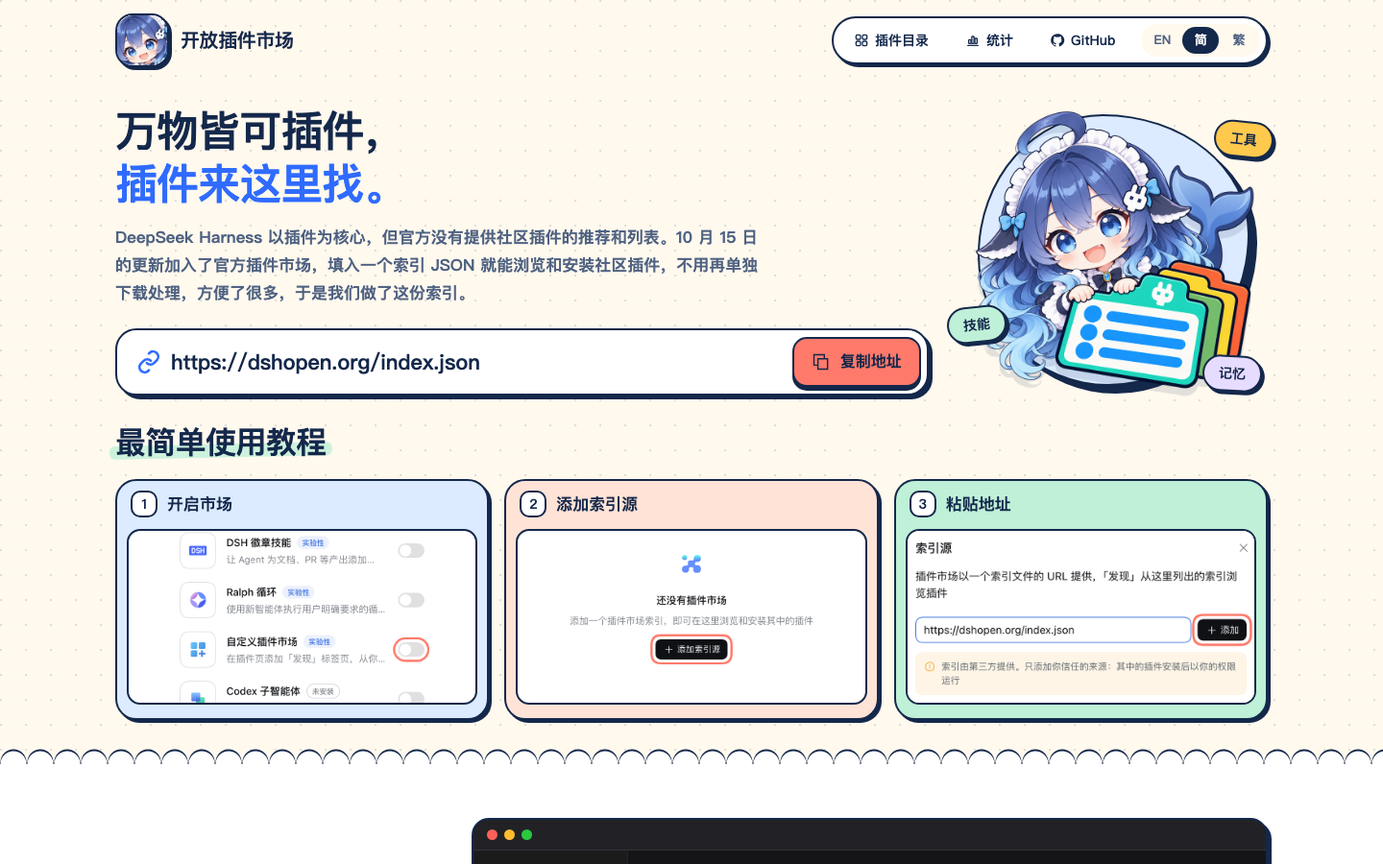
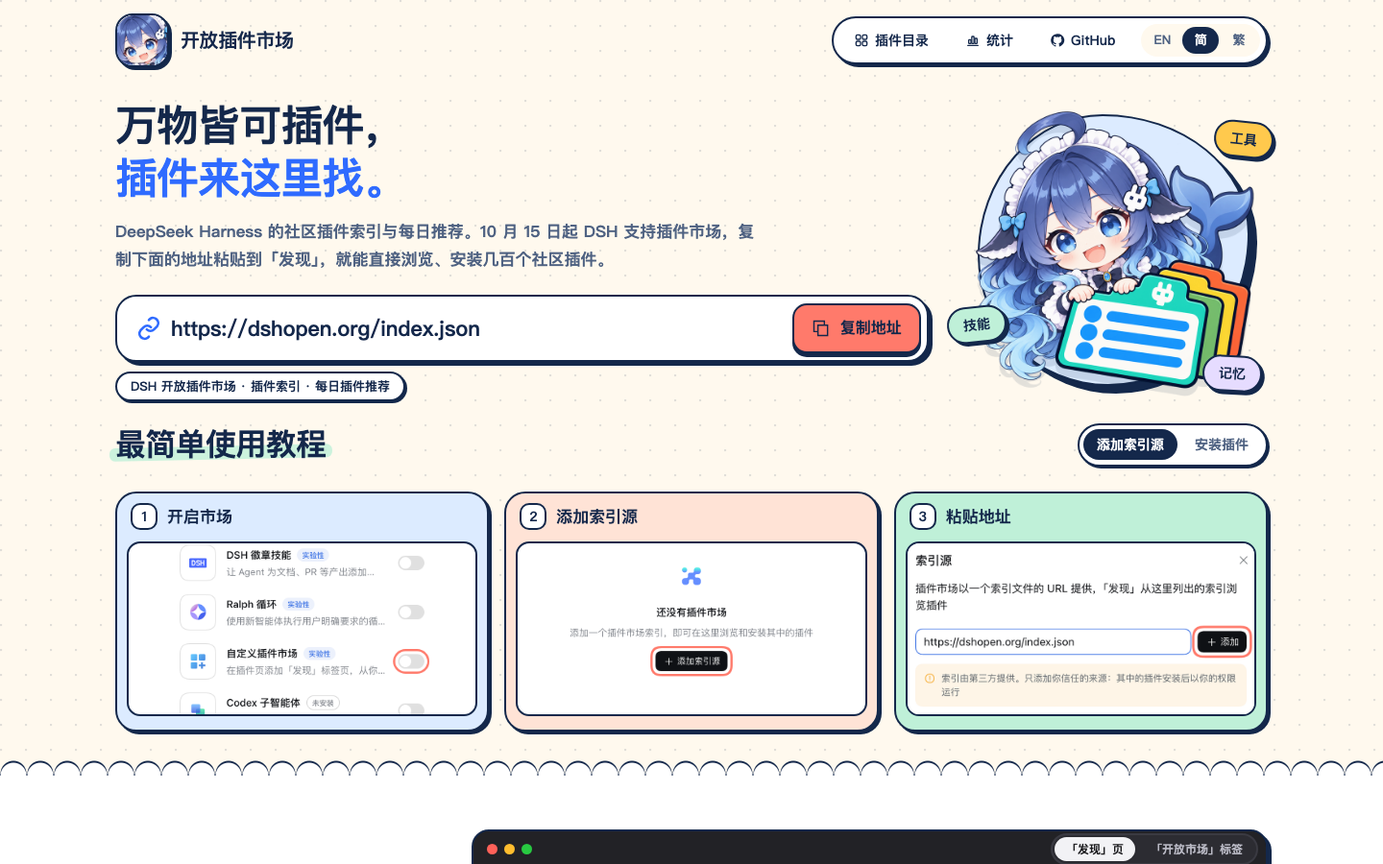
Refresh screenshots for DS Bot and the new Open Market tab
The Open Market screenshots now show the whole window with the sidebar and
the redesigned tab, in both themes; the README's home and catalog shots and
the sharing cards are recaptured from the current site, with DS Bot under
its new name.

Changed region(s): [[0.0, 0.4667, 1.0, 0.9022], [0.0625, 0.1244, 0.6875, 0.4667], [0.3438, 0.9333, 0.9375, 1.0]]

diff --git a/public/zh-tw/index.html b/public/zh-tw/index.html
@@ -27,13 +27,13 @@
   <meta property="og:title" content="開放外掛市場 · DSH 外掛市場 | DeepSeek Harness 外掛索引與每日外掛推薦">
   <meta property="og:description" content="DSH 外掛市場與外掛索引：收錄 854 個 DeepSeek Harness 社群外掛，工具、技能、記憶、介面應有盡有，每天按增長、更新和點贊推薦。複製索引地址，在 DSH「发现」裡瀏覽和安裝。">
   <meta property="og:url" content="https://dshopen.org/zh-tw/">
-  <meta property="og:image" content="https://dshopen.org/assets/social-tw-d18c86b5f3.png">
+  <meta property="og:image" content="https://dshopen.org/assets/social-tw-e7dc6facd1.png">
   <meta property="og:image:type" content="image/png">
   <meta property="og:image:width" content="1200">
   <meta property="og:image:height" content="630">
   <meta property="og:image:alt" content="開放外掛市場 · DSH 外掛市場 | DeepSeek Harness 外掛索引與每日外掛推薦">
   <meta name="twitter:card" content="summary_large_image">
-  <meta name="twitter:image" content="https://dshopen.org/assets/social-tw-d18c86b5f3.png">
+  <meta name="twitter:image" content="https://dshopen.org/assets/social-tw-e7dc6facd1.png">
   <meta name="twitter:image:alt" content="開放外掛市場 · DSH 外掛市場 | DeepSeek Harness 外掛索引與每日外掛推薦">
   <script type="application/ld+json">{"@context":"https://schema.org","@type":"WebSite","name":"開放外掛市場","alternateName":["DSH 外掛市場","DSH 外掛索引","Open Plugin Market"],"url":"https://dshopen.org/zh-tw/","inLanguage":"zh-TW","description":"DSH 外掛市場與外掛索引：收錄 854 個 DeepSeek Harness 社群外掛，工具、技能、記憶、介面應有盡有，每天按增長、更新和點贊推薦。複製索引地址，在 DSH「发现」裡瀏覽和安裝。"}</script>
   <script type="application/ld+json">{"@context":"https://schema.org","@type":"FAQPage","inLanguage":"zh-TW","mainEntity":[{"@type":"Question","name":"DSH 外掛在哪裡找？","acceptedAnswer":{"@type":"Answer","text":"DeepSeek Harness（DSH）的「发现」頁可以新增外掛索引源。開放外掛市場收錄了 854 個社群外掛，把 https://dshopen.org/index.json 新增為索引源後，就能在 DSH 裡直接瀏覽、搜尋和安裝；也可以在本站按分類、增長和更新時間瀏覽。"}},{"@type":"Question","name":"DSH 外掛怎麼安裝？","acceptedAnswer":{"@type":"Answer","text":"方法一：在「插件 → 实验性插件」中開啟「自定义插件市场」，再到「发现 → 添加索引源」貼上索引地址，然後在「发现」裡搜尋外掛名並安裝。方法二：執行 dsh plugin --profile desktop add dsh-open-market，它會自動完成上面的設定，並在「插件」頁加一個「開放市場」標籤。"}},{"@type":"Question","name":"外掛推薦是怎麼排的？","acceptedAnswer":{"@type":"Answer","text":"預設推薦每天更新，以最近增長快、更新勤的外掛為主，同時參考驗證、下載量、star 和點贊。同一作者不會霸榜，新專案和小開發者的作品也有機會上首屏。"}},{"@type":"Question","name":"和 DeepSeek 官方是什麼關係？","acceptedAnswer":{"@type":"Answer","text":"開放外掛市場是獨立的社群專案，與 DeepSeek 官方無隸屬關係。它使用 DSH 官方外掛市場支援的索引格式，外掛由 DSH 自己下載和安裝。"}},{"@type":"Question","name":"怎麼把自己的外掛提交到 DSH 外掛市場？","acceptedAnswer":{"@type":"Answer","text":"在 GitHub 上填寫收錄申請，提供公開原始碼、npm 包和許可證即可。收錄後可以在 README 放上徽章，顯示點贊數並連結到本站的外掛頁。"}}]}</script>
@@ -78,7 +78,7 @@
     <section class="directory-surface" aria-labelledby="directory-title">
     <section class="showcase shell" aria-labelledby="showcase-title">
       <div class="showcase-copy" data-reveal><h2 class="section-title" id="showcase-title">在 DSH 裡的樣子</h2><p>不唯 star 🌟 論。預設推薦每天更新，以最近增長快、更新勤、優質的外掛為主，同時參考驗證、下載量和 star。</p><ul><li>同一作者不會霸榜，小開發者的新作品也能上首屏</li><li>增長快、更新勤、經過驗證等標籤一眼可見</li><li>預設排序、✨ 智慧推薦和隨機，每次都有新發現</li></ul></div>
-      <figure class="app-frame" data-reveal data-shots><div class="app-bar"><span aria-hidden="true"></span><span aria-hidden="true"></span><span aria-hidden="true"></span><div class="app-tabs" role="tablist" hidden><button type="button" role="tab" aria-selected="true" data-shot-tab="discover">「发现」頁</button><button type="button" role="tab" aria-selected="false" data-shot-tab="market">「開放市場」標籤</button></div></div><picture><source media="(max-width: 620px)" srcset="../assets/dsh-discover-zh-narrow.webp" width="800" height="1028"><img src="../assets/dsh-discover-zh.webp" alt="DeepSeek Harness 的「發現」頁面，列出開放外掛市場的外掛、標籤和安裝按鈕" width="1600" height="1000" loading="lazy" decoding="async"></picture><picture class="app-light"><source media="(max-width: 620px)" srcset="../assets/dsh-discover-zh-narrow-light.webp"><img src="../assets/dsh-discover-zh-light.webp" alt="" width="1600" height="1000" loading="lazy" decoding="async"></picture><img class="app-market" data-shot="market" src="../assets/open-market-zh.webp" alt="dsh-open-market 在 DSH「外掛」頁加入的「開放市場」標籤：今日推薦和多行推薦列表" width="1600" height="1376" loading="lazy" decoding="async"><img class="app-market app-market-light" src="../assets/open-market-zh-light.webp" alt="" width="1600" height="1376" loading="lazy" decoding="async"></figure>
+      <figure class="app-frame" data-reveal data-shots><div class="app-bar"><span aria-hidden="true"></span><span aria-hidden="true"></span><span aria-hidden="true"></span><div class="app-tabs" role="tablist" hidden><button type="button" role="tab" aria-selected="true" data-shot-tab="discover">「发现」頁</button><button type="button" role="tab" aria-selected="false" data-shot-tab="market">「開放市場」標籤</button></div></div><picture><source media="(max-width: 620px)" srcset="../assets/dsh-discover-zh-narrow.webp" width="800" height="1028"><img src="../assets/dsh-discover-zh.webp" alt="DeepSeek Harness 的「發現」頁面，列出開放外掛市場的外掛、標籤和安裝按鈕" width="1600" height="1000" loading="lazy" decoding="async"></picture><picture class="app-light"><source media="(max-width: 620px)" srcset="../assets/dsh-discover-zh-narrow-light.webp"><img src="../assets/dsh-discover-zh-light.webp" alt="" width="1600" height="1000" loading="lazy" decoding="async"></picture><img class="app-market" data-shot="market" src="../assets/open-market-zh.webp" alt="dsh-open-market 在 DSH「外掛」頁加入的「開放市場」標籤：今日推薦和多行推薦列表" width="1600" height="1000" loading="lazy" decoding="async"><img class="app-market app-market-light" src="../assets/open-market-zh-light.webp" alt="" width="1600" height="1000" loading="lazy" decoding="async"></figure>
     </section><div class="directory-zone"><div class="directory shell" id="plugins">
       <div class="directory-heading" data-reveal><h2 class="section-title" id="directory-title">外掛目錄</h2></div>
       <div class="directory-meta"><ul class="stats"><li><strong>854</strong> 個外掛</li><li><strong>11</strong> 個分類</li><li>索引更新於 <strong>2026年10月22日</strong></li></ul></div>

diff --git a/public/zh/index.html b/public/zh/index.html
@@ -27,13 +27,13 @@
   <meta property="og:title" content="开放插件市场 · DSH 插件市场 | DeepSeek Harness 插件索引与每日插件推荐">
   <meta property="og:description" content="DSH 插件市场与插件索引：收录 854 个 DeepSeek Harness 社区插件，工具、技能、记忆、界面应有尽有，每天按增长、更新和点赞推荐。复制索引地址，在 DSH「发现」里浏览和安装。">
   <meta property="og:url" content="https://dshopen.org/zh/">
-  <meta property="og:image" content="https://dshopen.org/assets/social-zh-43a16c3d1d.png">
+  <meta property="og:image" content="https://dshopen.org/assets/social-zh-27d4ef9443.png">
   <meta property="og:image:type" content="image/png">
   <meta property="og:image:width" content="1200">
   <meta property="og:image:height" content="630">
   <meta property="og:image:alt" content="开放插件市场 · DSH 插件市场 | DeepSeek Harness 插件索引与每日插件推荐">
   <meta name="twitter:card" content="summary_large_image">
-  <meta name="twitter:image" content="https://dshopen.org/assets/social-zh-43a16c3d1d.png">
+  <meta name="twitter:image" content="https://dshopen.org/assets/social-zh-27d4ef9443.png">
   <meta name="twitter:image:alt" content="开放插件市场 · DSH 插件市场 | DeepSeek Harness 插件索引与每日插件推荐">
   <script type="application/ld+json">{"@context":"https://schema.org","@type":"WebSite","name":"开放插件市场","alternateName":["DSH 插件市场","DSH 插件索引","Open Plugin Market"],"url":"https://dshopen.org/zh/","inLanguage":"zh-CN","description":"DSH 插件市场与插件索引：收录 854 个 DeepSeek Harness 社区插件，工具、技能、记忆、界面应有尽有，每天按增长、更新和点赞推荐。复制索引地址，在 DSH「发现」里浏览和安装。"}</script>
   <script type="application/ld+json">{"@context":"https://schema.org","@type":"FAQPage","inLanguage":"zh-CN","mainEntity":[{"@type":"Question","name":"DSH 插件在哪里找？","acceptedAnswer":{"@type":"Answer","text":"DeepSeek Harness（DSH）的「发现」页可以添加插件索引源。开放插件市场收录了 854 个社区插件，把 https://dshopen.org/index.json 添加为索引源后，就能在 DSH 里直接浏览、搜索和安装；也可以在本站按分类、增长和更新时间浏览。"}},{"@type":"Question","name":"DSH 插件怎么安装？","acceptedAnswer":{"@type":"Answer","text":"方法一：在「插件 → 实验性插件」中打开「自定义插件市场」，再到「发现 → 添加索引源」粘贴索引地址，然后在「发现」里搜索插件名并安装。方法二：运行 dsh plugin --profile desktop add dsh-open-market，它会自动完成上面的设置，并在「插件」页加一个「开放市场」标签。"}},{"@type":"Question","name":"插件推荐是怎么排的？","acceptedAnswer":{"@type":"Answer","text":"默认推荐每天更新，以最近增长快、更新勤的插件为主，同时参考验证、下载量、star 和点赞。同一作者不会霸榜，新项目和小开发者的作品也有机会上首屏。"}},{"@type":"Question","name":"和 DeepSeek 官方是什么关系？","acceptedAnswer":{"@type":"Answer","text":"开放插件市场是独立的社区项目，与 DeepSeek 官方无隶属关系。它使用 DSH 官方插件市场支持的索引格式，插件由 DSH 自己下载和安装。"}},{"@type":"Question","name":"怎么把自己的插件提交到 DSH 插件市场？","acceptedAnswer":{"@type":"Answer","text":"在 GitHub 上填写收录申请，提供公开源码、npm 包和许可证即可。收录后可以在 README 放上徽章，显示点赞数并链接到本站的插件页。"}}]}</script>
@@ -78,7 +78,7 @@
     <section class="directory-surface" aria-labelledby="directory-title">
     <section class="showcase shell" aria-labelledby="showcase-title">
       <div class="showcase-copy" data-reveal><h2 class="section-title" id="showcase-title">在 DSH 里的样子</h2><p>不唯 star 🌟 论。默认推荐每天更新，以最近增长快、更新勤、优质的插件为主，同时参考验证、下载量和 star。</p><ul><li>同一作者不会霸榜，小开发者的新作品也能上首屏</li><li>增长快、更新勤、经过验证等标签一眼可见</li><li>默认排序、✨ 智能推荐和随机，每次都有新发现</li></ul></div>
-      <figure class="app-frame" data-reveal data-shots><div class="app-bar"><span aria-hidden="true"></span><span aria-hidden="true"></span><span aria-hidden="true"></span><div class="app-tabs" role="tablist" hidden><button type="button" role="tab" aria-selected="true" data-shot-tab="discover">「发现」页</button><button type="button" role="tab" aria-selected="false" data-shot-tab="market">「开放市场」标签</button></div></div><picture><source media="(max-width: 620px)" srcset="../assets/dsh-discover-zh-narrow.webp" width="800" height="1028"><img src="../assets/dsh-discover-zh.webp" alt="DeepSeek Harness 的「发现」页面，列出开放插件市场的插件、标签和安装按钮" width="1600" height="1000" loading="lazy" decoding="async"></picture><picture class="app-light"><source media="(max-width: 620px)" srcset="../assets/dsh-discover-zh-narrow-light.webp"><img src="../assets/dsh-discover-zh-light.webp" alt="" width="1600" height="1000" loading="lazy" decoding="async"></picture><img class="app-market" data-shot="market" src="../assets/open-market-zh.webp" alt="dsh-open-market 在 DSH「插件」页加入的「开放市场」标签：今日推荐和多行推荐列表" width="1600" height="1376" loading="lazy" decoding="async"><img class="app-market app-market-light" src="../assets/open-market-zh-light.webp" alt="" width="1600" height="1376" loading="lazy" decoding="async"></figure>
+      <figure class="app-frame" data-reveal data-shots><div class="app-bar"><span aria-hidden="true"></span><span aria-hidden="true"></span><span aria-hidden="true"></span><div class="app-tabs" role="tablist" hidden><button type="button" role="tab" aria-selected="true" data-shot-tab="discover">「发现」页</button><button type="button" role="tab" aria-selected="false" data-shot-tab="market">「开放市场」标签</button></div></div><picture><source media="(max-width: 620px)" srcset="../assets/dsh-discover-zh-narrow.webp" width="800" height="1028"><img src="../assets/dsh-discover-zh.webp" alt="DeepSeek Harness 的「发现」页面，列出开放插件市场的插件、标签和安装按钮" width="1600" height="1000" loading="lazy" decoding="async"></picture><picture class="app-light"><source media="(max-width: 620px)" srcset="../assets/dsh-discover-zh-narrow-light.webp"><img src="../assets/dsh-discover-zh-light.webp" alt="" width="1600" height="1000" loading="lazy" decoding="async"></picture><img class="app-market" data-shot="market" src="../assets/open-market-zh.webp" alt="dsh-open-market 在 DSH「插件」页加入的「开放市场」标签：今日推荐和多行推荐列表" width="1600" height="1000" loading="lazy" decoding="async"><img class="app-market app-market-light" src="../assets/open-market-zh-light.webp" alt="" width="1600" height="1000" loading="lazy" decoding="async"></figure>
     </section><div class="directory-zone"><div class="directory shell" id="plugins">
       <div class="directory-heading" data-reveal><h2 class="section-title" id="directory-title">插件目录</h2></div>
       <div class="directory-meta"><ul class="stats"><li><strong>854</strong> 个插件</li><li><strong>11</strong> 个分类</li><li>索引更新于 <strong>2026年10月22日</strong></li></ul></div>

diff --git a/public/index.html b/public/index.html
@@ -27,13 +27,13 @@
   <meta property="og:title" content="Open Plugin Market · DSH plugin market | DeepSeek Harness plugin index &amp; daily picks">
   <meta property="og:description" content="DSH plugin market and plugin index for DeepSeek Harness: 854 community plugins (tools, skills, memory, UI and more), with daily picks by growth, updates and likes. Add one URL to browse and install them in DSH.">
   <meta property="og:url" content="https://dshopen.org/">
-  <meta property="og:image" content="https://dshopen.org/assets/social-8f61917c49.png">
+  <meta property="og:image" content="https://dshopen.org/assets/social-31914764e3.png">
   <meta property="og:image:type" content="image/png">
   <meta property="og:image:width" content="1200">
   <meta property="og:image:height" content="630">
   <meta property="og:image:alt" content="Open Plugin Market · DSH plugin market | DeepSeek Harness plugin index &amp; daily picks">
   <meta name="twitter:card" content="summary_large_image">
-  <meta name="twitter:image" content="https://dshopen.org/assets/social-8f61917c49.png">
+  <meta name="twitter:image" content="https://dshopen.org/assets/social-31914764e3.png">
   <meta name="twitter:image:alt" content="Open Plugin Market · DSH plugin market | DeepSeek Harness plugin index &amp; daily picks">
   <script type="application/ld+json">{"@context":"https://schema.org","@type":"WebSite","name":"Open Plugin Market","alternateName":["DSH Plugin Market","DeepSeek Harness plugin index"],"url":"https://dshopen.org/","inLanguage":"en","description":"DSH plugin market and plugin index for DeepSeek Harness: 854 community plugins (tools, skills, memory, UI and more), with daily picks by growth, updates and likes. Add one URL to browse and install them in DSH."}</script>
   <script type="application/ld+json">{"@context":"https://schema.org","@type":"FAQPage","inLanguage":"en","mainEntity":[{"@type":"Question","name":"Where can I find DSH plugins?","acceptedAnswer":{"@type":"Answer","text":"DeepSeek Harness (DSH) can browse any plugin index from its Discover tab. Open Plugin Market lists 854 community plugins: add https://dshopen.org/index.json as an index source to browse, search and install them inside DSH, or browse them here by category, growth and release date."}},{"@type":"Question","name":"How do I install a DSH plugin?","acceptedAnswer":{"@type":"Answer","text":"Option 1: switch on Custom plugin markets under Plugins → Experimental plugins, go to Discover → Add index source, paste the index URL, then search for the plugin in Discover and install it. Option 2: run dsh plugin --profile desktop add dsh-open-market, which does all of that for you and adds an Open Market tab to the Plugins page."}},{"@type":"Question","name":"How are the picks ranked?","acceptedAnswer":{"@type":"Answer","text":"The default order refreshes every day and leads with plugins that are growing fast and shipping often, with verification, downloads, stars and likes as supporting signals. No author can flood the list, so new projects get a turn on the first screen."}},{"@type":"Question","name":"Is this affiliated with DeepSeek?","acceptedAnswer":{"@type":"Answer","text":"No. Open Plugin Market is an independent community project. It uses the index format DSH's official plugin market reads, and DSH itself downloads and installs every plugin."}},{"@type":"Question","name":"How do I list my own plugin?","acceptedAnswer":{"@type":"Answer","text":"Open a request on GitHub with a public repository, an npm release and a license. Once listed, put the badge in your README: it shows your likes and links to your plugin's page here."}}]}</script>
@@ -78,7 +78,7 @@
     <section class="directory-surface" aria-labelledby="directory-title">
     <section class="showcase shell" aria-labelledby="showcase-title">
       <div class="showcase-copy" data-reveal><h2 class="section-title" id="showcase-title">How it looks in DSH</h2><p>Stars aren&#39;t everything here. The default picks refresh every day and put fast-growing, actively shipped, genuinely good plugins first, with verification, downloads and stars as supporting signals.</p><ul><li>No single author can flood the list, so a newcomer can make the first screen</li><li>Rising, Frequent updates and Verified labels at a glance</li><li>Default order, ✨ Smart picks and Random: every visit turns up something new</li></ul></div>
-      <figure class="app-frame" data-reveal data-shots><div class="app-bar"><span aria-hidden="true"></span><span aria-hidden="true"></span><span aria-hidden="true"></span><div class="app-tabs" role="tablist" hidden><button type="button" role="tab" aria-selected="true" data-shot-tab="discover">Discover</button><button type="button" role="tab" aria-selected="false" data-shot-tab="market">Open Market tab</button></div></div><picture><source media="(max-width: 620px)" srcset="assets/dsh-discover-en-narrow.webp" width="800" height="1028"><img src="assets/dsh-discover-en.webp" alt="The Discover tab of DeepSeek Harness listing Open Plugin Market plugins with labels and install buttons" width="1600" height="1000" loading="lazy" decoding="async"></picture><picture class="app-light"><source media="(max-width: 620px)" srcset="assets/dsh-discover-en-narrow-light.webp"><img src="assets/dsh-discover-en-light.webp" alt="" width="1600" height="1000" loading="lazy" decoding="async"></picture><img class="app-market" data-shot="market" src="assets/open-market-en.webp" alt="The Open Market tab that dsh-open-market adds to the DSH Plugins page: today&#39;s picks and rows of recommended plugins" width="1600" height="1376" loading="lazy" decoding="async"><img class="app-market app-market-light" src="assets/open-market-en-light.webp" alt="" width="1600" height="1376" loading="lazy" decoding="async"></figure>
+      <figure class="app-frame" data-reveal data-shots><div class="app-bar"><span aria-hidden="true"></span><span aria-hidden="true"></span><span aria-hidden="true"></span><div class="app-tabs" role="tablist" hidden><button type="button" role="tab" aria-selected="true" data-shot-tab="discover">Discover</button><button type="button" role="tab" aria-selected="false" data-shot-tab="market">Open Market tab</button></div></div><picture><source media="(max-width: 620px)" srcset="assets/dsh-discover-en-narrow.webp" width="800" height="1028"><img src="assets/dsh-discover-en.webp" alt="The Discover tab of DeepSeek Harness listing Open Plugin Market plugins with labels and install buttons" width="1600" height="1000" loading="lazy" decoding="async"></picture><picture class="app-light"><source media="(max-width: 620px)" srcset="assets/dsh-discover-en-narrow-light.webp"><img src="assets/dsh-discover-en-light.webp" alt="" width="1600" height="1000" loading="lazy" decoding="async"></picture><img class="app-market" data-shot="market" src="assets/open-market-en.webp" alt="The Open Market tab that dsh-open-market adds to the DSH Plugins page: today&#39;s picks and rows of recommended plugins" width="1600" height="1000" loading="lazy" decoding="async"><img class="app-market app-market-light" src="assets/open-market-en-light.webp" alt="" width="1600" height="1000" loading="lazy" decoding="async"></figure>
     </section><div class="directory-zone"><div class="directory shell" id="plugins">
       <div class="directory-heading" data-reveal><h2 class="section-title" id="directory-title">Plugin directory</h2></div>
       <div class="directory-meta"><ul class="stats"><li><strong>854</strong> plugins</li><li><strong>11</strong> categories</li><li>Index updated <strong>22 Oct 2026</strong></li></ul></div>

diff --git a/public/zh-tw/stats/index.html b/public/zh-tw/stats/index.html
@@ -27,13 +27,13 @@
   <meta property="og:title" content="使用統計 — 開放外掛市場">
   <meta property="og:description" content="開放外掛市場在 DeepSeek Harness 中每天有多少人使用、來自哪裡：近 30 天每日使用者數和載入次數，以及國家和地區分佈。">
   <meta property="og:url" content="https://dshopen.org/zh-tw/stats/">
-  <meta property="og:image" content="https://dshopen.org/assets/social-tw-d18c86b5f3.png">
+  <meta property="og:image" content="https://dshopen.org/assets/social-tw-e7dc6facd1.png">
   <meta property="og:image:type" content="image/png">
   <meta property="og:image:width" content="1200">
   <meta property="og:image:height" content="630">
   <meta property="og:image:alt" content="使用統計 — 開放外掛市場">
   <meta name="twitter:card" content="summary_large_image">
-  <meta name="twitter:image" content="https://dshopen.org/assets/social-tw-d18c86b5f3.png">
+  <meta name="twitter:image" content="https://dshopen.org/assets/social-tw-e7dc6facd1.png">
   <meta name="twitter:image:alt" content="使用統計 — 開放外掛市場">
   <script type="application/ld+json">{"@context":"https://schema.org","@type":"WebPage","name":"使用統計","url":"https://dshopen.org/zh-tw/stats/","inLanguage":"zh-TW","description":"開放外掛市場在 DeepSeek Harness 中每天有多少人使用、來自哪裡：近 30 天每日使用者數和載入次數，以及國家和地區分佈。"}</script>
 

diff --git a/public/zh/stats/index.html b/public/zh/stats/index.html
@@ -27,13 +27,13 @@
   <meta property="og:title" content="使用统计 — 开放插件市场">
   <meta property="og:description" content="开放插件市场在 DeepSeek Harness 中每天有多少人使用、来自哪里：近 30 天每日用户数和加载次数，以及国家和地区分布。">
   <meta property="og:url" content="https://dshopen.org/zh/stats/">
-  <meta property="og:image" content="https://dshopen.org/assets/social-zh-43a16c3d1d.png">
+  <meta property="og:image" content="https://dshopen.org/assets/social-zh-27d4ef9443.png">
   <meta property="og:image:type" content="image/png">
   <meta property="og:image:width" content="1200">
   <meta property="og:image:height" content="630">
   <meta property="og:image:alt" content="使用统计 — 开放插件市场">
   <meta name="twitter:card" content="summary_large_image">
-  <meta name="twitter:image" content="https://dshopen.org/assets/social-zh-43a16c3d1d.png">
+  <meta name="twitter:image" content="https://dshopen.org/assets/social-zh-27d4ef9443.png">
   <meta name="twitter:image:alt" content="使用统计 — 开放插件市场">
   <script type="application/ld+json">{"@context":"https://schema.org","@type":"WebPage","name":"使用统计","url":"https://dshopen.org/zh/stats/","inLanguage":"zh-CN","description":"开放插件市场在 DeepSeek Harness 中每天有多少人使用、来自哪里：近 30 天每日用户数和加载次数，以及国家和地区分布。"}</script>
 

diff --git a/public/stats/index.html b/public/stats/index.html
@@ -27,13 +27,13 @@
   <meta property="og:title" content="Usage stats — Open Plugin Market">
   <meta property="og:description" content="How many people use Open Plugin Market in DeepSeek Harness each day, and where they are: daily users and loads for the last 30 days, by country and region.">
   <meta property="og:url" content="https://dshopen.org/stats/">
-  <meta property="og:image" content="https://dshopen.org/assets/social-8f61917c49.png">
+  <meta property="og:image" content="https://dshopen.org/assets/social-31914764e3.png">
   <meta property="og:image:type" content="image/png">
   <meta property="og:image:width" content="1200">
   <meta property="og:image:height" content="630">
   <meta property="og:image:alt" content="Usage stats — Open Plugin Market">
   <meta name="twitter:card" content="summary_large_image">
-  <meta name="twitter:image" content="https://dshopen.org/assets/social-8f61917c49.png">
+  <meta name="twitter:image" content="https://dshopen.org/assets/social-31914764e3.png">
   <meta name="twitter:image:alt" content="Usage stats — Open Plugin Market">
   <script type="application/ld+json">{"@context":"https://schema.org","@type":"WebPage","name":"Usage stats","url":"https://dshopen.org/stats/","inLanguage":"en","description":"How many people use Open Plugin Market in DeepSeek Harness each day, and where they are: daily users and loads for the last 30 days, by country and region."}</script>
 
